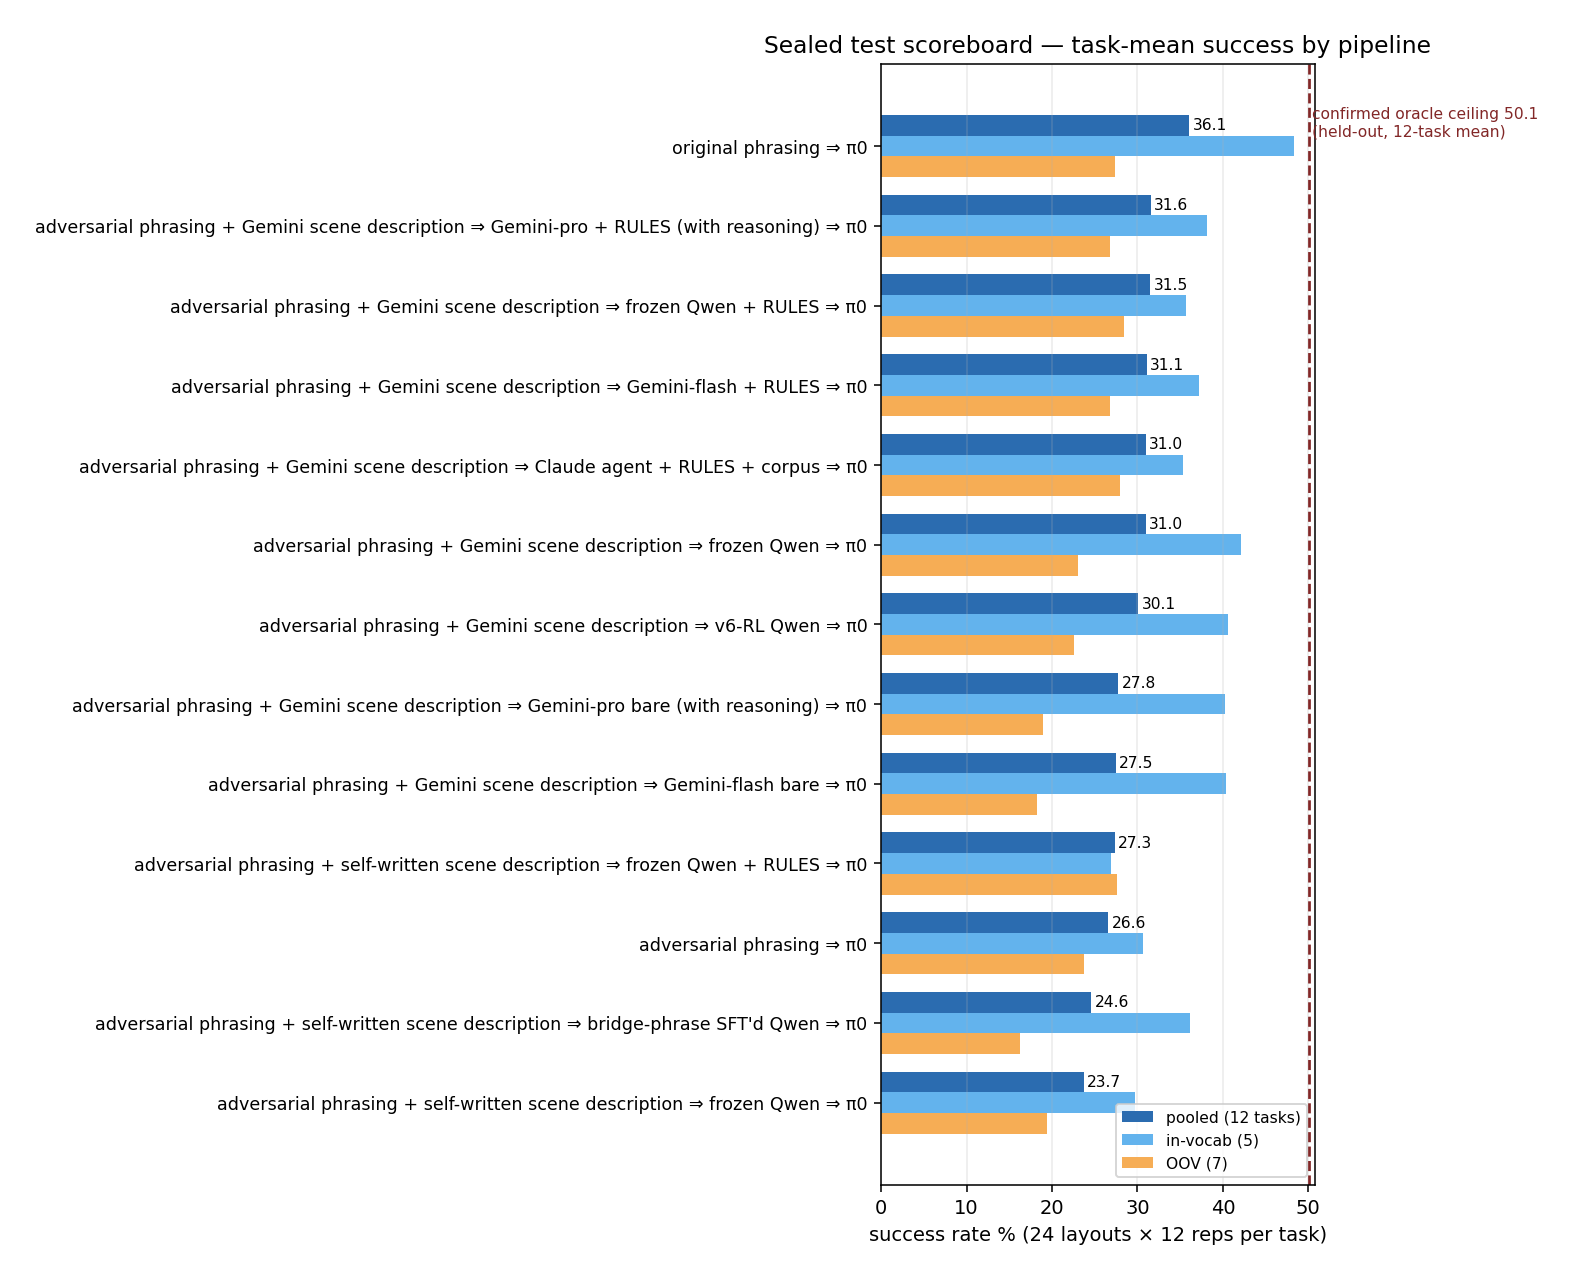
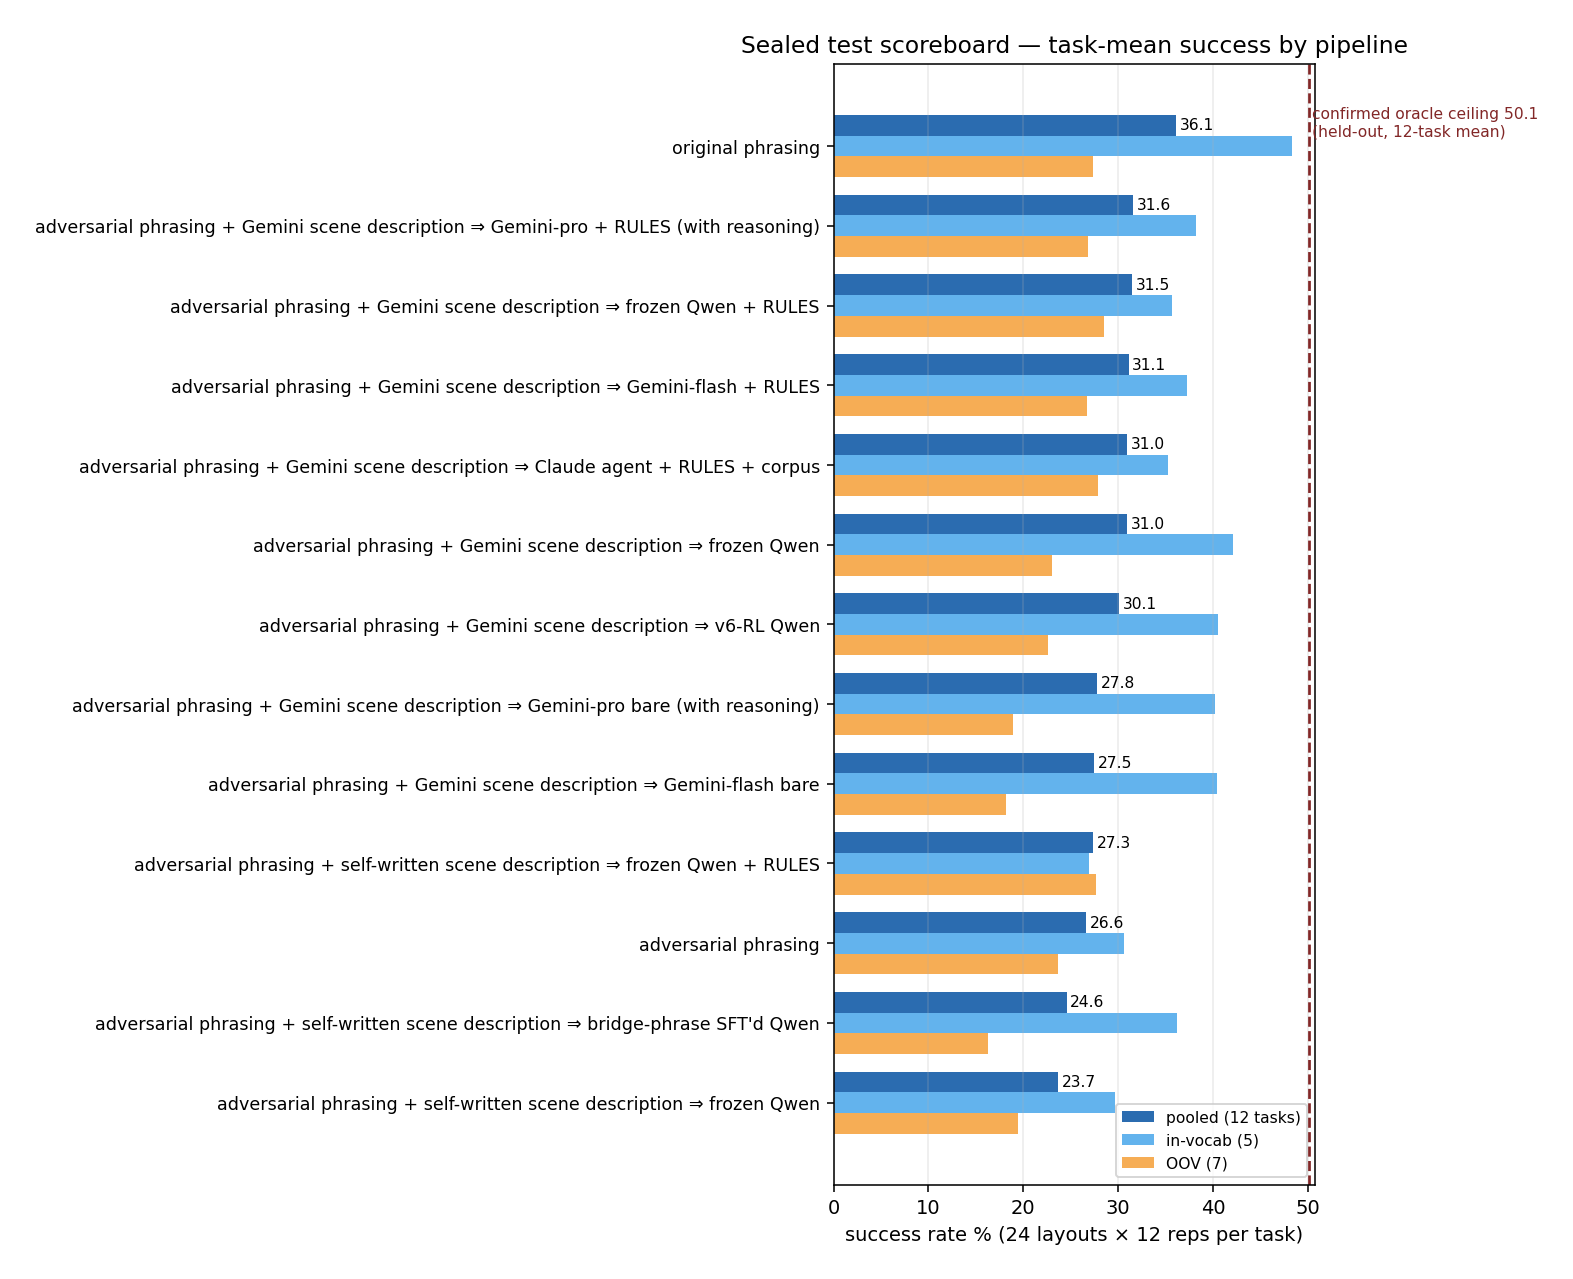
charts: drop '=> pi0' suffix; oracle bar labeled 'oracle'

diff --git a/scripts/make_sealed_scoreboard.py b/scripts/make_sealed_scoreboard.py
@@ -20,22 +20,22 @@ import matplotlib.pyplot as plt
 import pandas as pd
 
 NAME = {
-    "originals": "original phrasing ⇒ π0",
-    "passthrough": "adversarial phrasing ⇒ π0",
-    "frozen_gemini_trace": "adversarial phrasing + Gemini scene description ⇒ frozen Qwen ⇒ π0",
-    "frozen_selftrace": "adversarial phrasing + self-written scene description ⇒ frozen Qwen ⇒ π0",
-    "sft_v2": "adversarial phrasing + self-written scene description ⇒ bridge-phrase SFT'd Qwen ⇒ π0",
-    "v6_rl": "adversarial phrasing + Gemini scene description ⇒ v6-RL Qwen ⇒ π0",
-    "rules_v3_gemini_trace": "adversarial phrasing + Gemini scene description ⇒ frozen Qwen + RULES ⇒ π0",
-    "rules_gemini": "adversarial phrasing + Gemini scene description ⇒ Gemini-flash + RULES ⇒ π0",
-    "gemini_bare": "adversarial phrasing + Gemini scene description ⇒ Gemini-flash bare ⇒ π0",
-    "rules_v3_selftrace": "adversarial phrasing + self-written scene description ⇒ frozen Qwen + RULES ⇒ π0",
-    "rules_v3_gemini_pro": "adversarial phrasing + Gemini scene description ⇒ Gemini-pro + RULES (with reasoning) ⇒ π0",
-    "gemini_pro_bare": "adversarial phrasing + Gemini scene description ⇒ Gemini-pro bare (with reasoning) ⇒ π0",
-    "claude_agent": "adversarial phrasing + Gemini scene description ⇒ Claude agent + RULES + corpus ⇒ π0",
-    "executor_pair": "adversarial phrasing + Gemini scene description ⇒ Claude agent + RULES + corpus ⇒ π0",
-    "rules_v3_claude_agent": "adversarial phrasing + Gemini scene description ⇒ Claude agent + RULES + corpus ⇒ π0",
-    "rules_pro_nominal": "original phrasing + Gemini scene description ⇒ Gemini-pro + RULES (with reasoning) ⇒ π0",
+    "originals": "original phrasing",
+    "passthrough": "adversarial phrasing",
+    "frozen_gemini_trace": "adversarial phrasing + Gemini scene description ⇒ frozen Qwen",
+    "frozen_selftrace": "adversarial phrasing + self-written scene description ⇒ frozen Qwen",
+    "sft_v2": "adversarial phrasing + self-written scene description ⇒ bridge-phrase SFT'd Qwen",
+    "v6_rl": "adversarial phrasing + Gemini scene description ⇒ v6-RL Qwen",
+    "rules_v3_gemini_trace": "adversarial phrasing + Gemini scene description ⇒ frozen Qwen + RULES",
+    "rules_gemini": "adversarial phrasing + Gemini scene description ⇒ Gemini-flash + RULES",
+    "gemini_bare": "adversarial phrasing + Gemini scene description ⇒ Gemini-flash bare",
+    "rules_v3_selftrace": "adversarial phrasing + self-written scene description ⇒ frozen Qwen + RULES",
+    "rules_v3_gemini_pro": "adversarial phrasing + Gemini scene description ⇒ Gemini-pro + RULES (with reasoning)",
+    "gemini_pro_bare": "adversarial phrasing + Gemini scene description ⇒ Gemini-pro bare (with reasoning)",
+    "claude_agent": "adversarial phrasing + Gemini scene description ⇒ Claude agent + RULES + corpus",
+    "executor_pair": "adversarial phrasing + Gemini scene description ⇒ Claude agent + RULES + corpus",
+    "rules_v3_claude_agent": "adversarial phrasing + Gemini scene description ⇒ Claude agent + RULES + corpus",
+    "rules_pro_nominal": "original phrasing + Gemini scene description ⇒ Gemini-pro + RULES (with reasoning)",
     "oracle_confirmed": "oracle phrase (adaptive search) ⇒ π0  *selected on layouts 0-17",
 }
 

diff --git a/scripts/make_sealed_thin.py b/scripts/make_sealed_thin.py
@@ -31,21 +31,21 @@ def full_grid(arm):
 def oracle_value():
     v, se = full_grid("oracle_confirmed")
     if v is not None:
-        return v, se, "oracle phrase (adaptive search) ⇒ π0"
+        return v, se, "oracle"
     conf = sorted(glob.glob("results/search/sealedsearch_*_confirm_results.json"))
     best = [max(e["success_pct"] for e in json.load(open(f))["scoreboard"]) / 100 for f in conf]
     v = 100 * sum(best) / len(best)
     se = 100 * math.sqrt(sum(p * (1 - p) / 72 for p in best)) / len(best)
-    return v, se, "oracle phrase (adaptive search) ⇒ π0  *held-out est., full-grid leg rolling"
+    return v, se, "oracle*"
 
 
 BARS = [  # (label, arm or callable, color)
     ("oracle", oracle_value, "#822727"),
-    ("original phrasing + Gemini scene description ⇒ Gemini-pro + RULES (with reasoning) ⇒ π0", "rules_pro_nominal", "#805ad5"),
-    ("original phrasing ⇒ π0", "originals", "#48bb78"),
-    ("adversarial phrasing + Gemini scene description ⇒ Gemini-pro + RULES (with reasoning) ⇒ π0", "rules_v3_gemini_pro", "#2b6cb0"),
-    ("adversarial phrasing + Gemini scene description ⇒ Gemini-pro (with reasoning) ⇒ π0", "gemini_pro_bare", "#63b3ed"),
-    ("adversarial phrasing ⇒ π0", "passthrough", "#a0aec0"),
+    ("original phrasing + Gemini scene description ⇒ Gemini-pro + RULES (with reasoning)", "rules_pro_nominal", "#805ad5"),
+    ("original phrasing", "originals", "#48bb78"),
+    ("adversarial phrasing + Gemini scene description ⇒ Gemini-pro + RULES (with reasoning)", "rules_v3_gemini_pro", "#2b6cb0"),
+    ("adversarial phrasing + Gemini scene description ⇒ Gemini-pro (with reasoning)", "gemini_pro_bare", "#63b3ed"),
+    ("adversarial phrasing", "passthrough", "#a0aec0"),
 ]
 
 rows = []
@@ -74,6 +74,8 @@ ax.set_xlabel("success % on 12 tasks (24 layouts × 12 reps)")
 ax.set_title("Sealed test — thin scoreboard")
 ax.grid(axis="x", alpha=0.25)
 ax.set_xlim(0, max((r[1] or 0) + (r[2] or 0) for r in rows) + 7)
+if any("*" in r[0] for r in rows):
+    fig.text(0.01, 0.01, "* held-out estimate — full-grid leg rolling", fontsize=7, color="#718096")
 fig.tight_layout()
 fig.savefig("results/charts/sealed_thin.png", dpi=150, bbox_inches="tight", pad_inches=0.25)
 print("chart -> results/charts/sealed_thin.png")

diff --git a/scripts/make_phrasing_ladder.py b/scripts/make_phrasing_ladder.py
@@ -41,14 +41,14 @@ def task_mean(arm: str) -> tuple[float, float]:
 
 
 BARS = [
-    ("adversarial phrasing ⇒ π0", "passthrough", "#a0aec0"),
-    ("adversarial phrasing + Gemini scene description ⇒ Gemini-pro (with reasoning) ⇒ π0", "gemini_pro_bare", "#63b3ed"),
-    ("adversarial phrasing + Gemini scene description ⇒ v6-RL Qwen ⇒ π0", "v6_rl", "#9f7aea"),
-    ("adversarial phrasing + Gemini scene description ⇒ frozen Qwen ⇒ π0", "frozen_gemini_trace", "#c3a6e8"),
-    ("adversarial phrasing + Gemini scene description ⇒ frozen Qwen + RULES ⇒ π0", "rules_v3_gemini_trace", "#6b46c1"),
-    ("adversarial phrasing + Gemini scene description ⇒ Gemini-pro + RULES (with reasoning) ⇒ π0", "rules_v3_gemini_pro", "#2b6cb0"),
-    ("original phrasing ⇒ π0", "originals", "#48bb78"),
-    ("oracle phrase (adaptive search) ⇒ π0", None, "#822727"),
+    ("adversarial phrasing", "passthrough", "#a0aec0"),
+    ("adversarial phrasing + Gemini scene description ⇒ Gemini-pro (with reasoning)", "gemini_pro_bare", "#63b3ed"),
+    ("adversarial phrasing + Gemini scene description ⇒ v6-RL Qwen", "v6_rl", "#9f7aea"),
+    ("adversarial phrasing + Gemini scene description ⇒ frozen Qwen", "frozen_gemini_trace", "#c3a6e8"),
+    ("adversarial phrasing + Gemini scene description ⇒ frozen Qwen + RULES", "rules_v3_gemini_trace", "#6b46c1"),
+    ("adversarial phrasing + Gemini scene description ⇒ Gemini-pro + RULES (with reasoning)", "rules_v3_gemini_pro", "#2b6cb0"),
+    ("original phrasing", "originals", "#48bb78"),
+    ("oracle", None, "#822727"),
 ]
 
 rows = []
